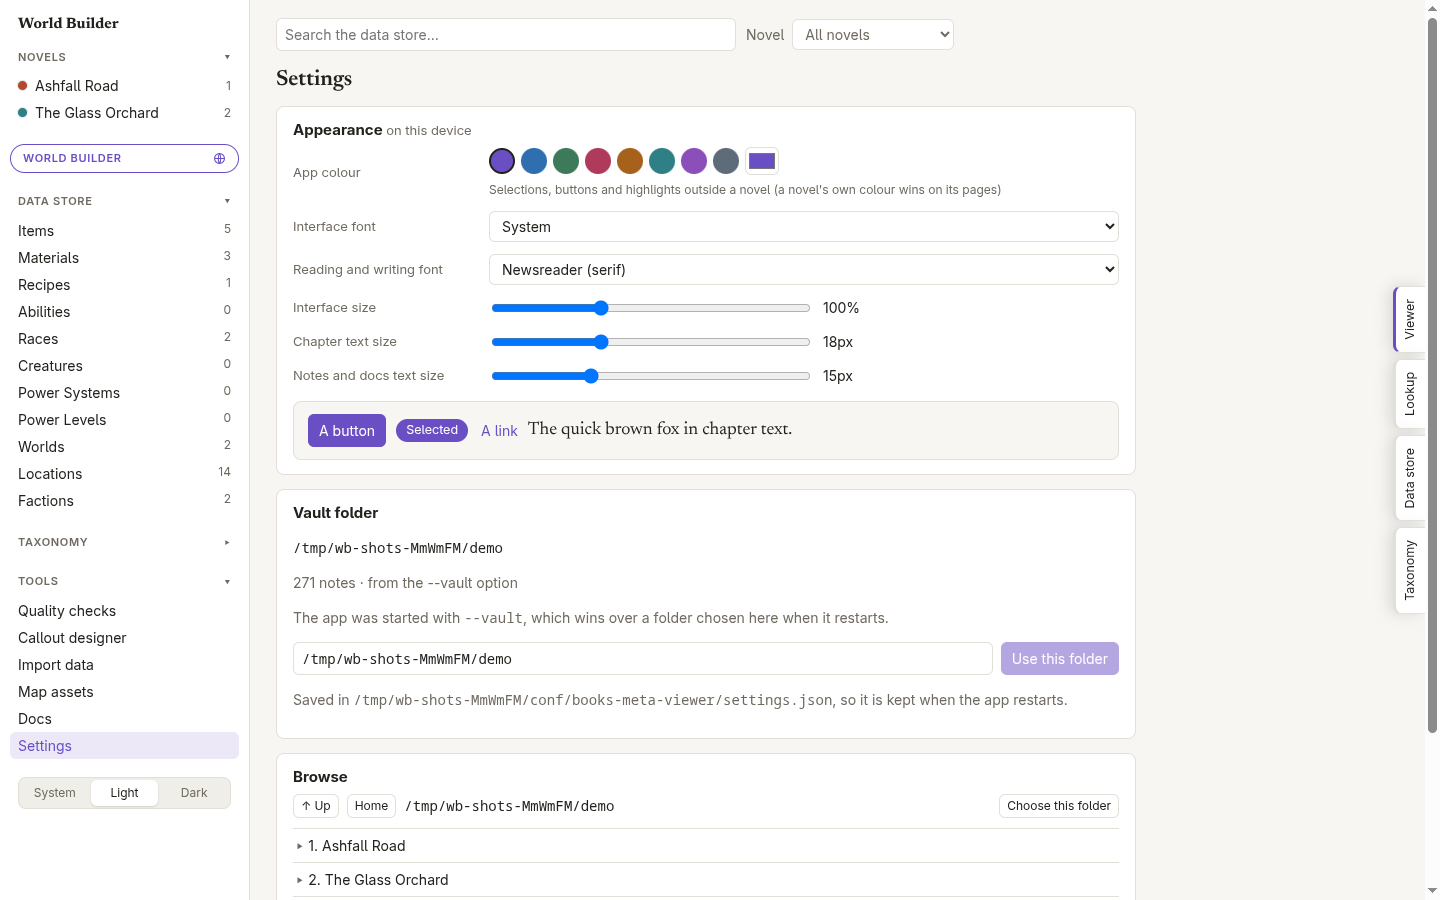
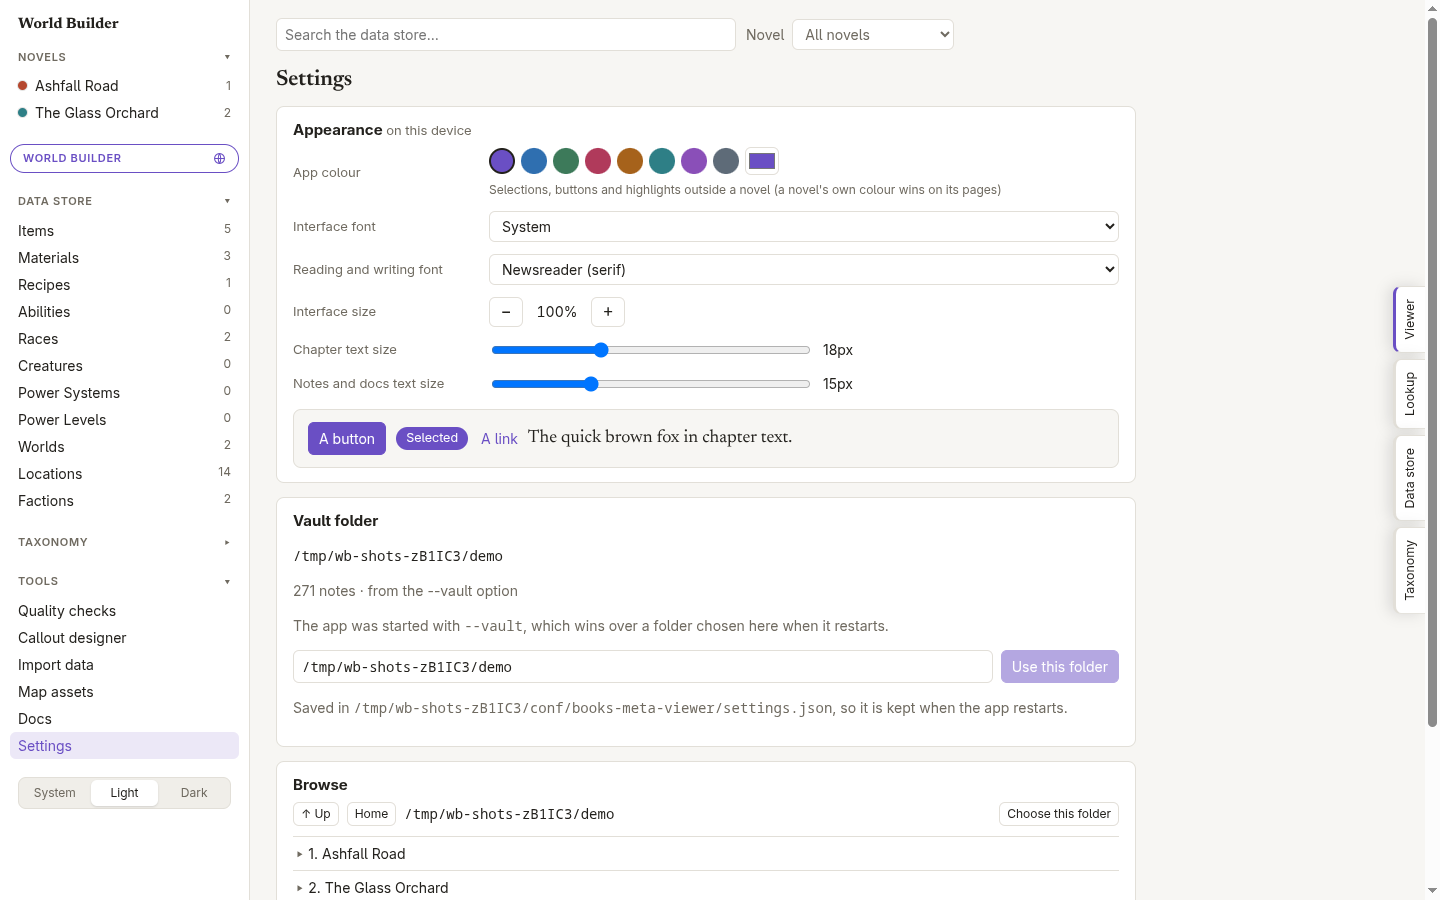
Settings: interface size with - and + buttons instead of a slider

Changed region(s): [[0.1875, 0.3422, 0.7812, 1.0], [0.3438, 0.3111, 0.5938, 0.4356], [0.6875, 0.8711, 0.7812, 0.9333]]

diff --git a/public/app.js b/public/app.js
@@ -3042,6 +3042,16 @@ function AppearancePanel({ saved }) {
     const range = (k, min, max, step, def, fmt) => html`<div class="appearance-range">
         <input type="range" min=${min} max=${max} step=${step} value=${a[k] ?? def} onInput=${(e) => change({ [k]: Number(e.target.value) })} aria-label=${k} />
         <span>${fmt(a[k] ?? def)}</span>${a[k] != null && a[k] !== def ? html`<button class="small" onClick=${() => change({ [k]: null })}>Default</button>` : ""}</div>`;
+    // buttons, not a slider: zooming the window moved a slider away from the pointer mid-drag
+    const stepper = (k, min, max, step, def, fmt) => {
+        const v = a[k] ?? def;
+        const to = (x) => change({ [k]: Math.round(Math.min(max, Math.max(min, x)) * 100) / 100 });
+        return html`<div class="appearance-range appearance-stepper">
+            <button type="button" aria-label="Smaller" title="Smaller" disabled=${v <= min} onClick=${() => to(v - step)}>−</button>
+            <span class="stepper-value">${fmt(v)}</span>
+            <button type="button" aria-label="Larger" title="Larger" disabled=${v >= max} onClick=${() => to(v + step)}>+</button>
+            ${a[k] != null && a[k] !== def ? html`<button class="small" onClick=${() => change({ [k]: null })}>Default</button>` : ""}</div>`;
+    };
     return html`<div class="panel">
         <h3>Appearance <span class="muted" style="font-weight:400;font-size:13px">on this device</span></h3>
         <div class="appearance-grid">
@@ -3055,7 +3065,7 @@ function AppearancePanel({ saved }) {
             <select value=${a.uiFont ?? "system"} onChange=${(e) => change({ uiFont: e.target.value === "system" ? null : e.target.value })}>${Object.entries(UI_FONTS).map(([k, [l]]) => html`<option value=${k}>${l}</option>`)}</select>
             <label>Reading and writing font</label>
             <select value=${a.readFont ?? "serif"} onChange=${(e) => change({ readFont: e.target.value === "serif" ? null : e.target.value })}>${Object.entries(READ_FONTS).map(([k, [l]]) => html`<option value=${k}>${l}</option>`)}</select>
-            <label>Interface size</label>${range("uiScale", 0.8, 1.4, 0.05, 1, (v) => `${Math.round(v * 100)}%`)}
+            <label>Interface size</label>${stepper("uiScale", 0.8, 1.4, 0.1, 1, (v) => `${Math.round(v * 100)}%`)}
             <label>Chapter text size</label>${range("writerSize", 13, 28, 1, 18, (v) => `${v}px`)}
             <label>Notes and docs text size</label>${range("readSize", 12, 22, 0.5, 15, (v) => `${v}px`)}
         </div>

diff --git a/public/style.css b/public/style.css
@@ -983,3 +983,5 @@ kbd { font: 500 11.5px var(--mono); padding: 1px 6px; border: 1px solid var(--li
 .appearance-range { display: flex; gap: 10px; align-items: center; }
 .appearance-range input[type="range"] { flex: 1; max-width: 320px; padding: 0; }
 .appearance-preview { margin-top: 14px; padding: 12px 14px; border: 1px solid var(--line); border-radius: var(--radius); background: var(--bg); display: flex; gap: 10px; align-items: center; flex-wrap: wrap; }
+.appearance-stepper button[aria-label] { width: 34px; height: 30px; padding: 0; font-size: 17px; line-height: 1; }
+.stepper-value { min-width: 48px; text-align: center; font-variant-numeric: tabular-nums; }

diff --git a/docs/settings-and-appearance.md b/docs/settings-and-appearance.md
@@ -16,7 +16,7 @@ blurb: The app's colour, fonts and text sizes on this device, and the vault fold
 | App colour | Buttons, selections and highlights wherever no novel colours the page. A novel's own colour (set on its page) wins inside it. |
 | Interface font | Menus, tables, forms |
 | Reading and writing font | Chapter text in the writer, notes, docs |
-| Interface size | Zooms the whole app (80–140%) |
+| Interface size | Zooms the whole app, 80–140%, with the − and + buttons |
 | Chapter text size | The writer and its preview |
 | Notes and docs text size | Note bodies and these docs |
 
